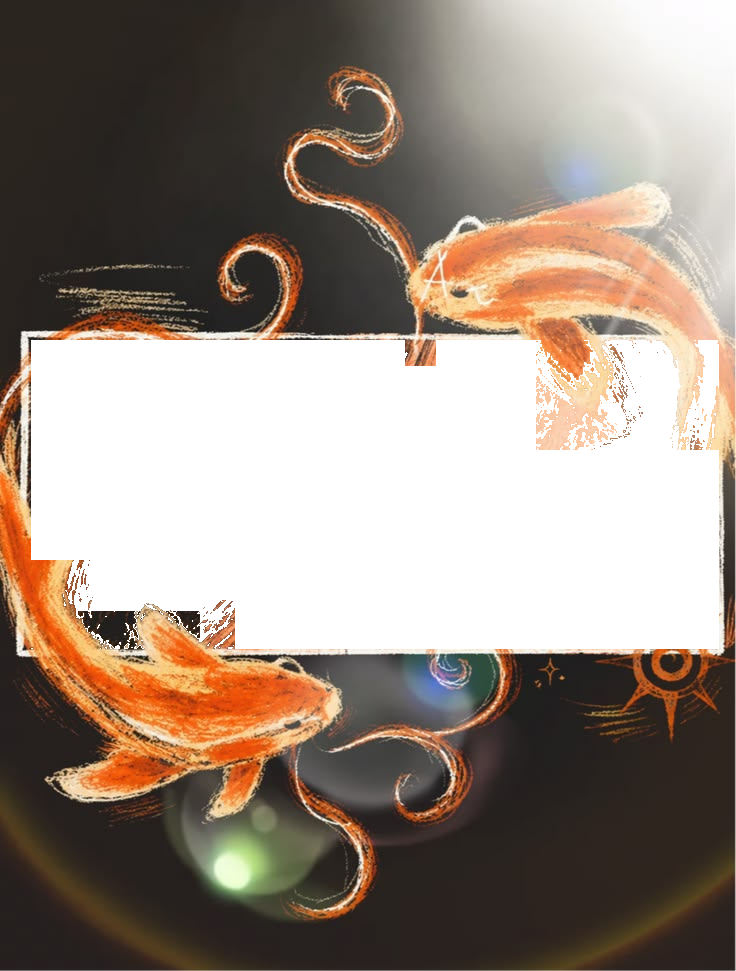
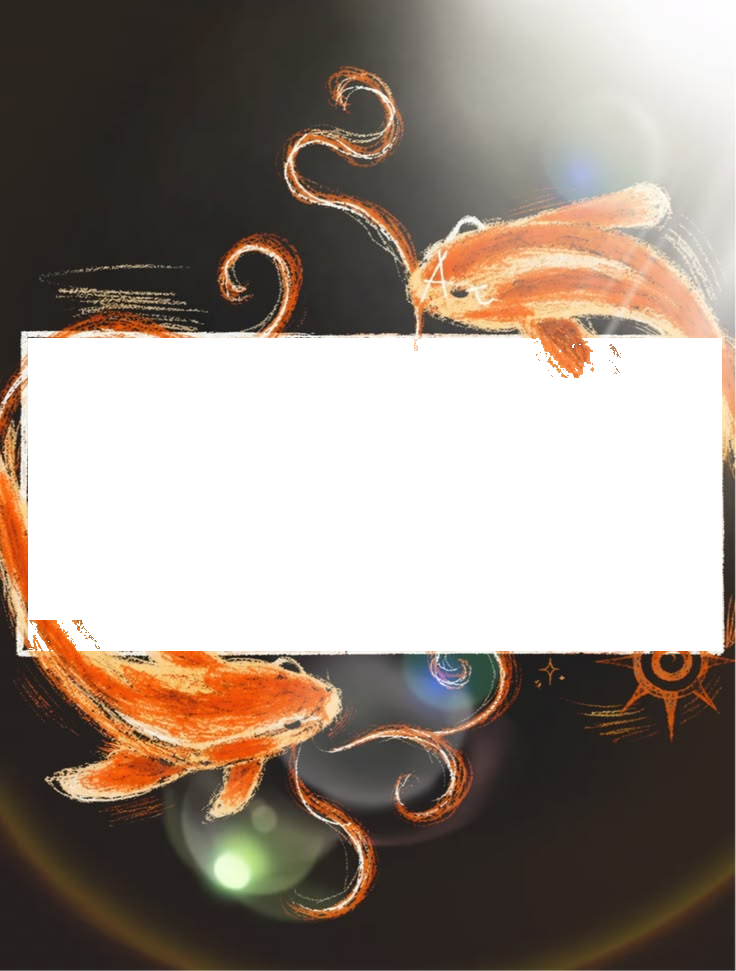
fix(astral-koi): eliminate residual skin leak and perfect transparent frame window

diff --git a/src/features/templates/astral_koi_template.js b/src/features/templates/astral_koi_template.js
@@ -27,7 +27,7 @@ export const astralKoiTemplate = {
   config: {
     canvasWidth: 1200,
     canvasHeight: 1600,
-    frame: { x: 51, y: 560, w: 1120, h: 507 }
+    frame: { x: 46, y: 557, w: 1130, h: 514 }
   },
   render(ctx, img, bounds, state) {
     const { canvasWidth: cw, canvasHeight: ch, frame } = this.config;
